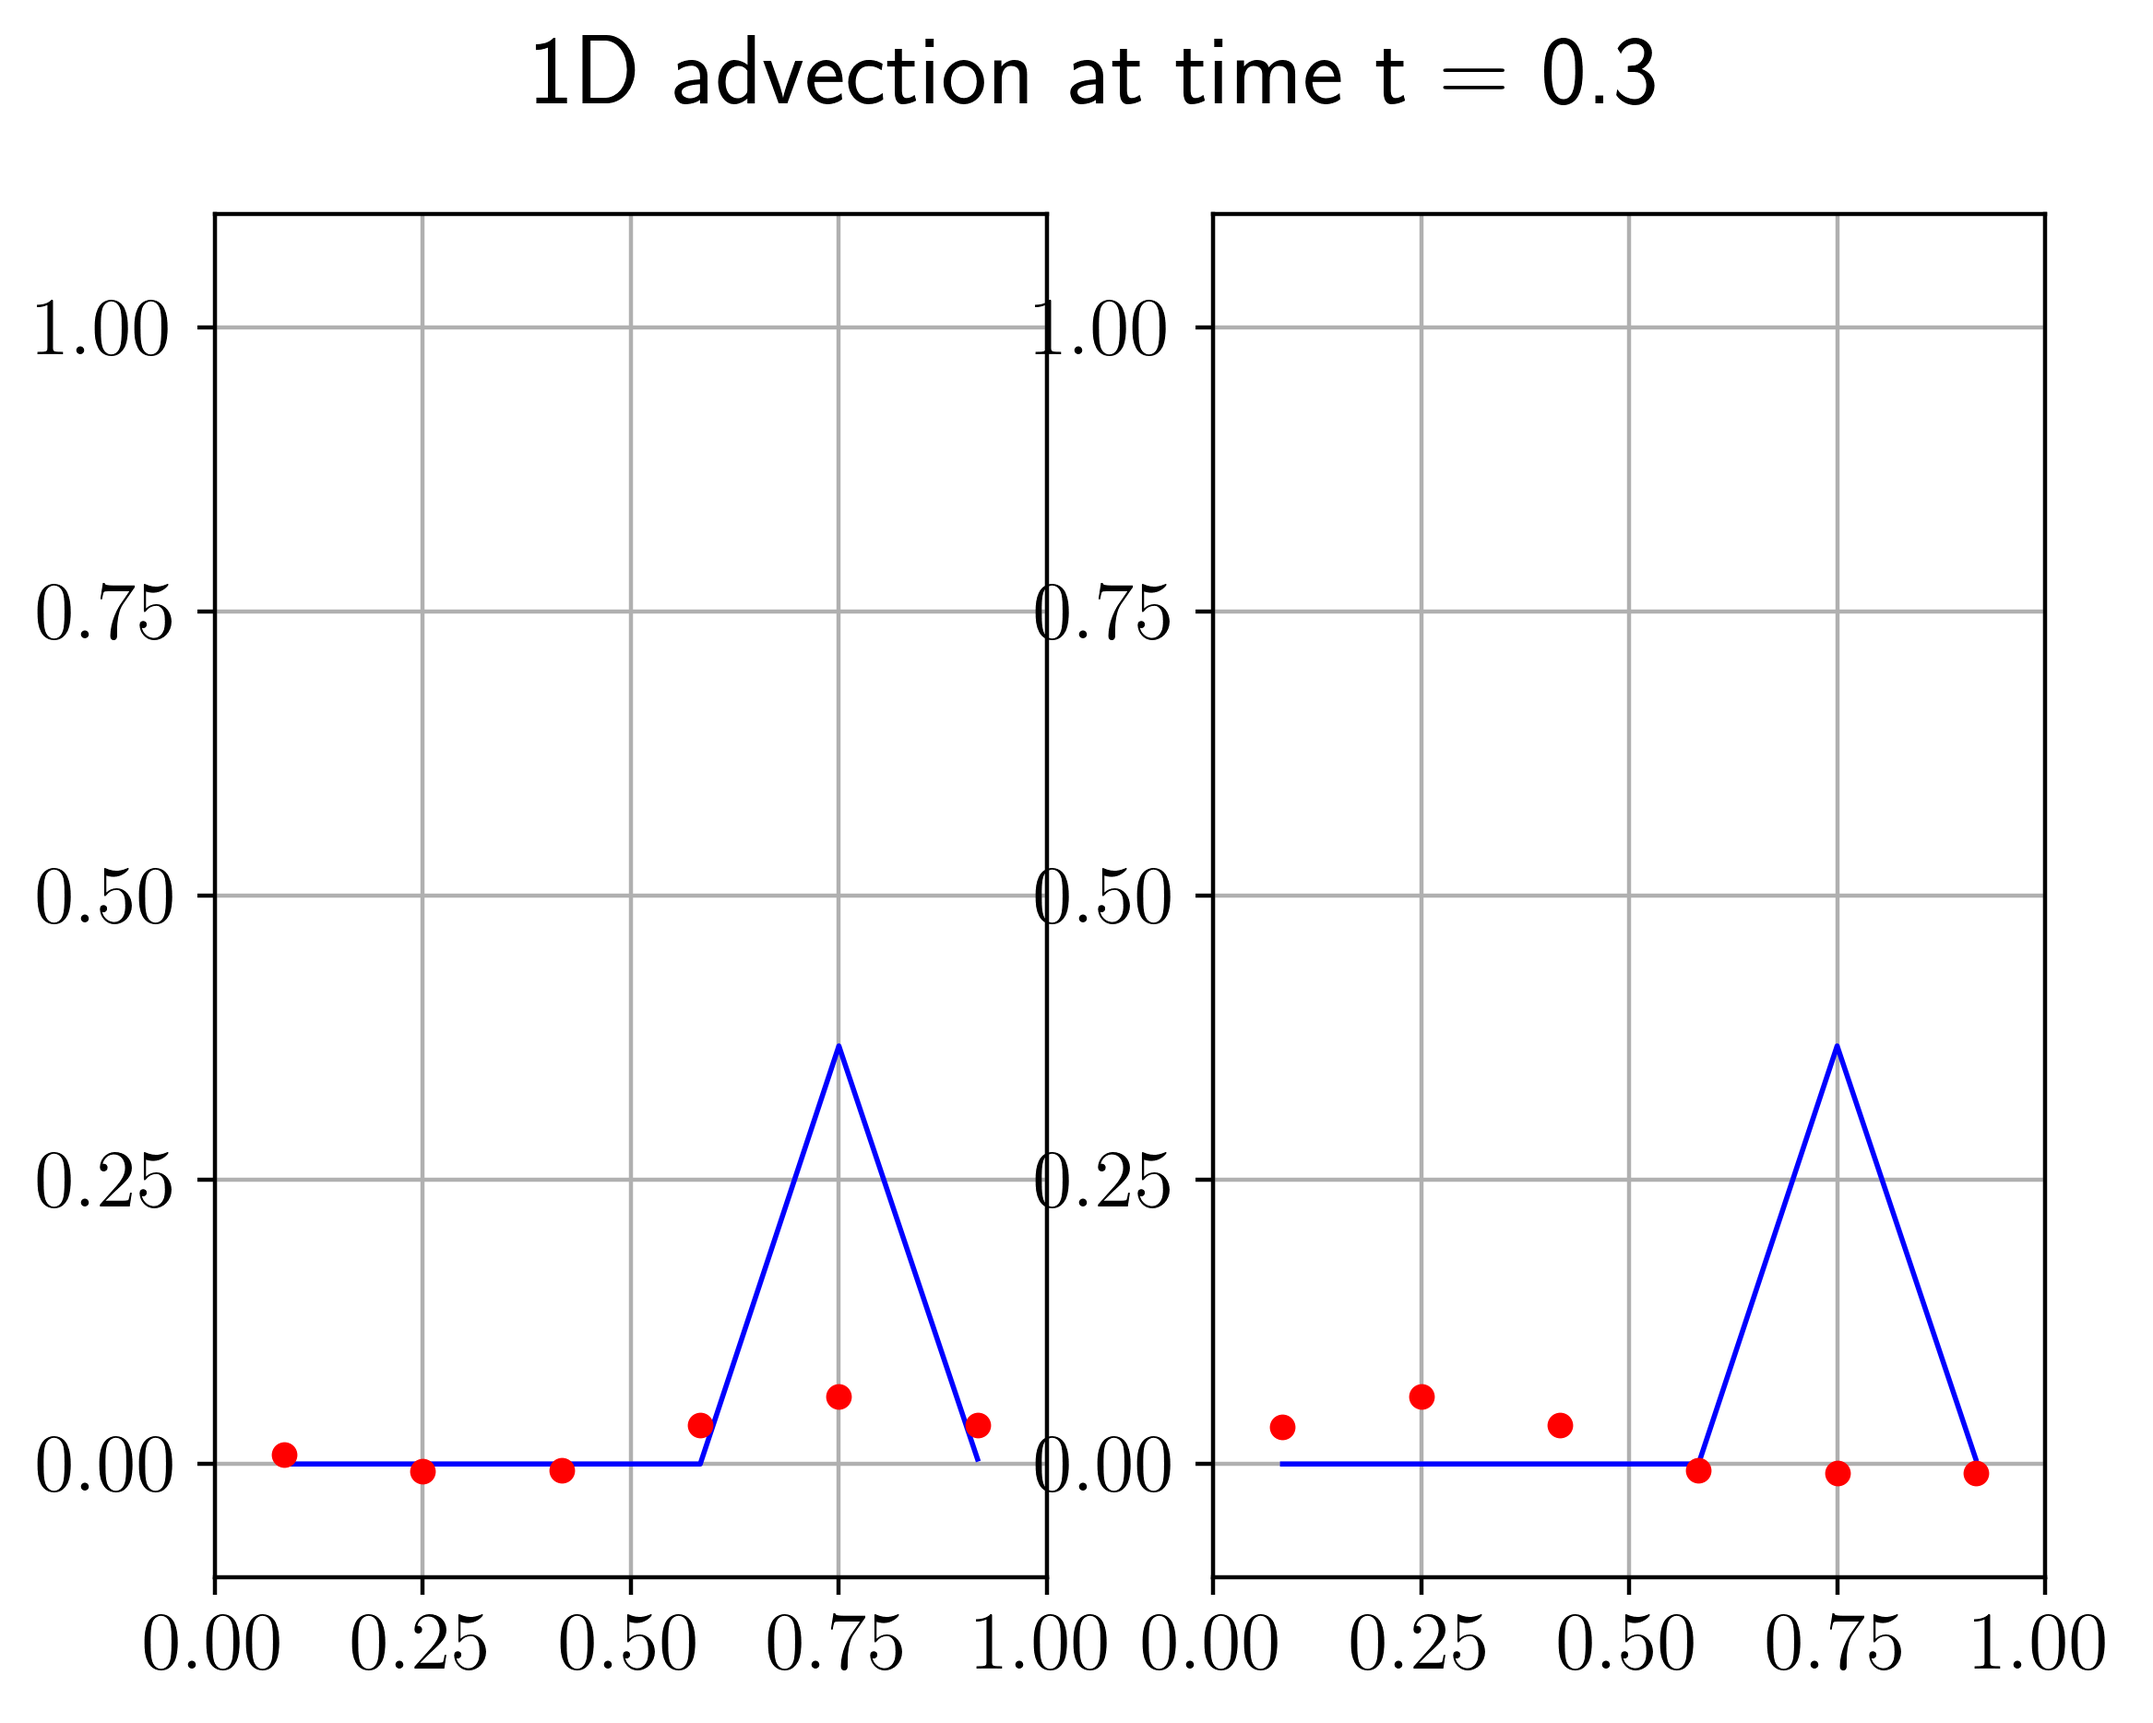
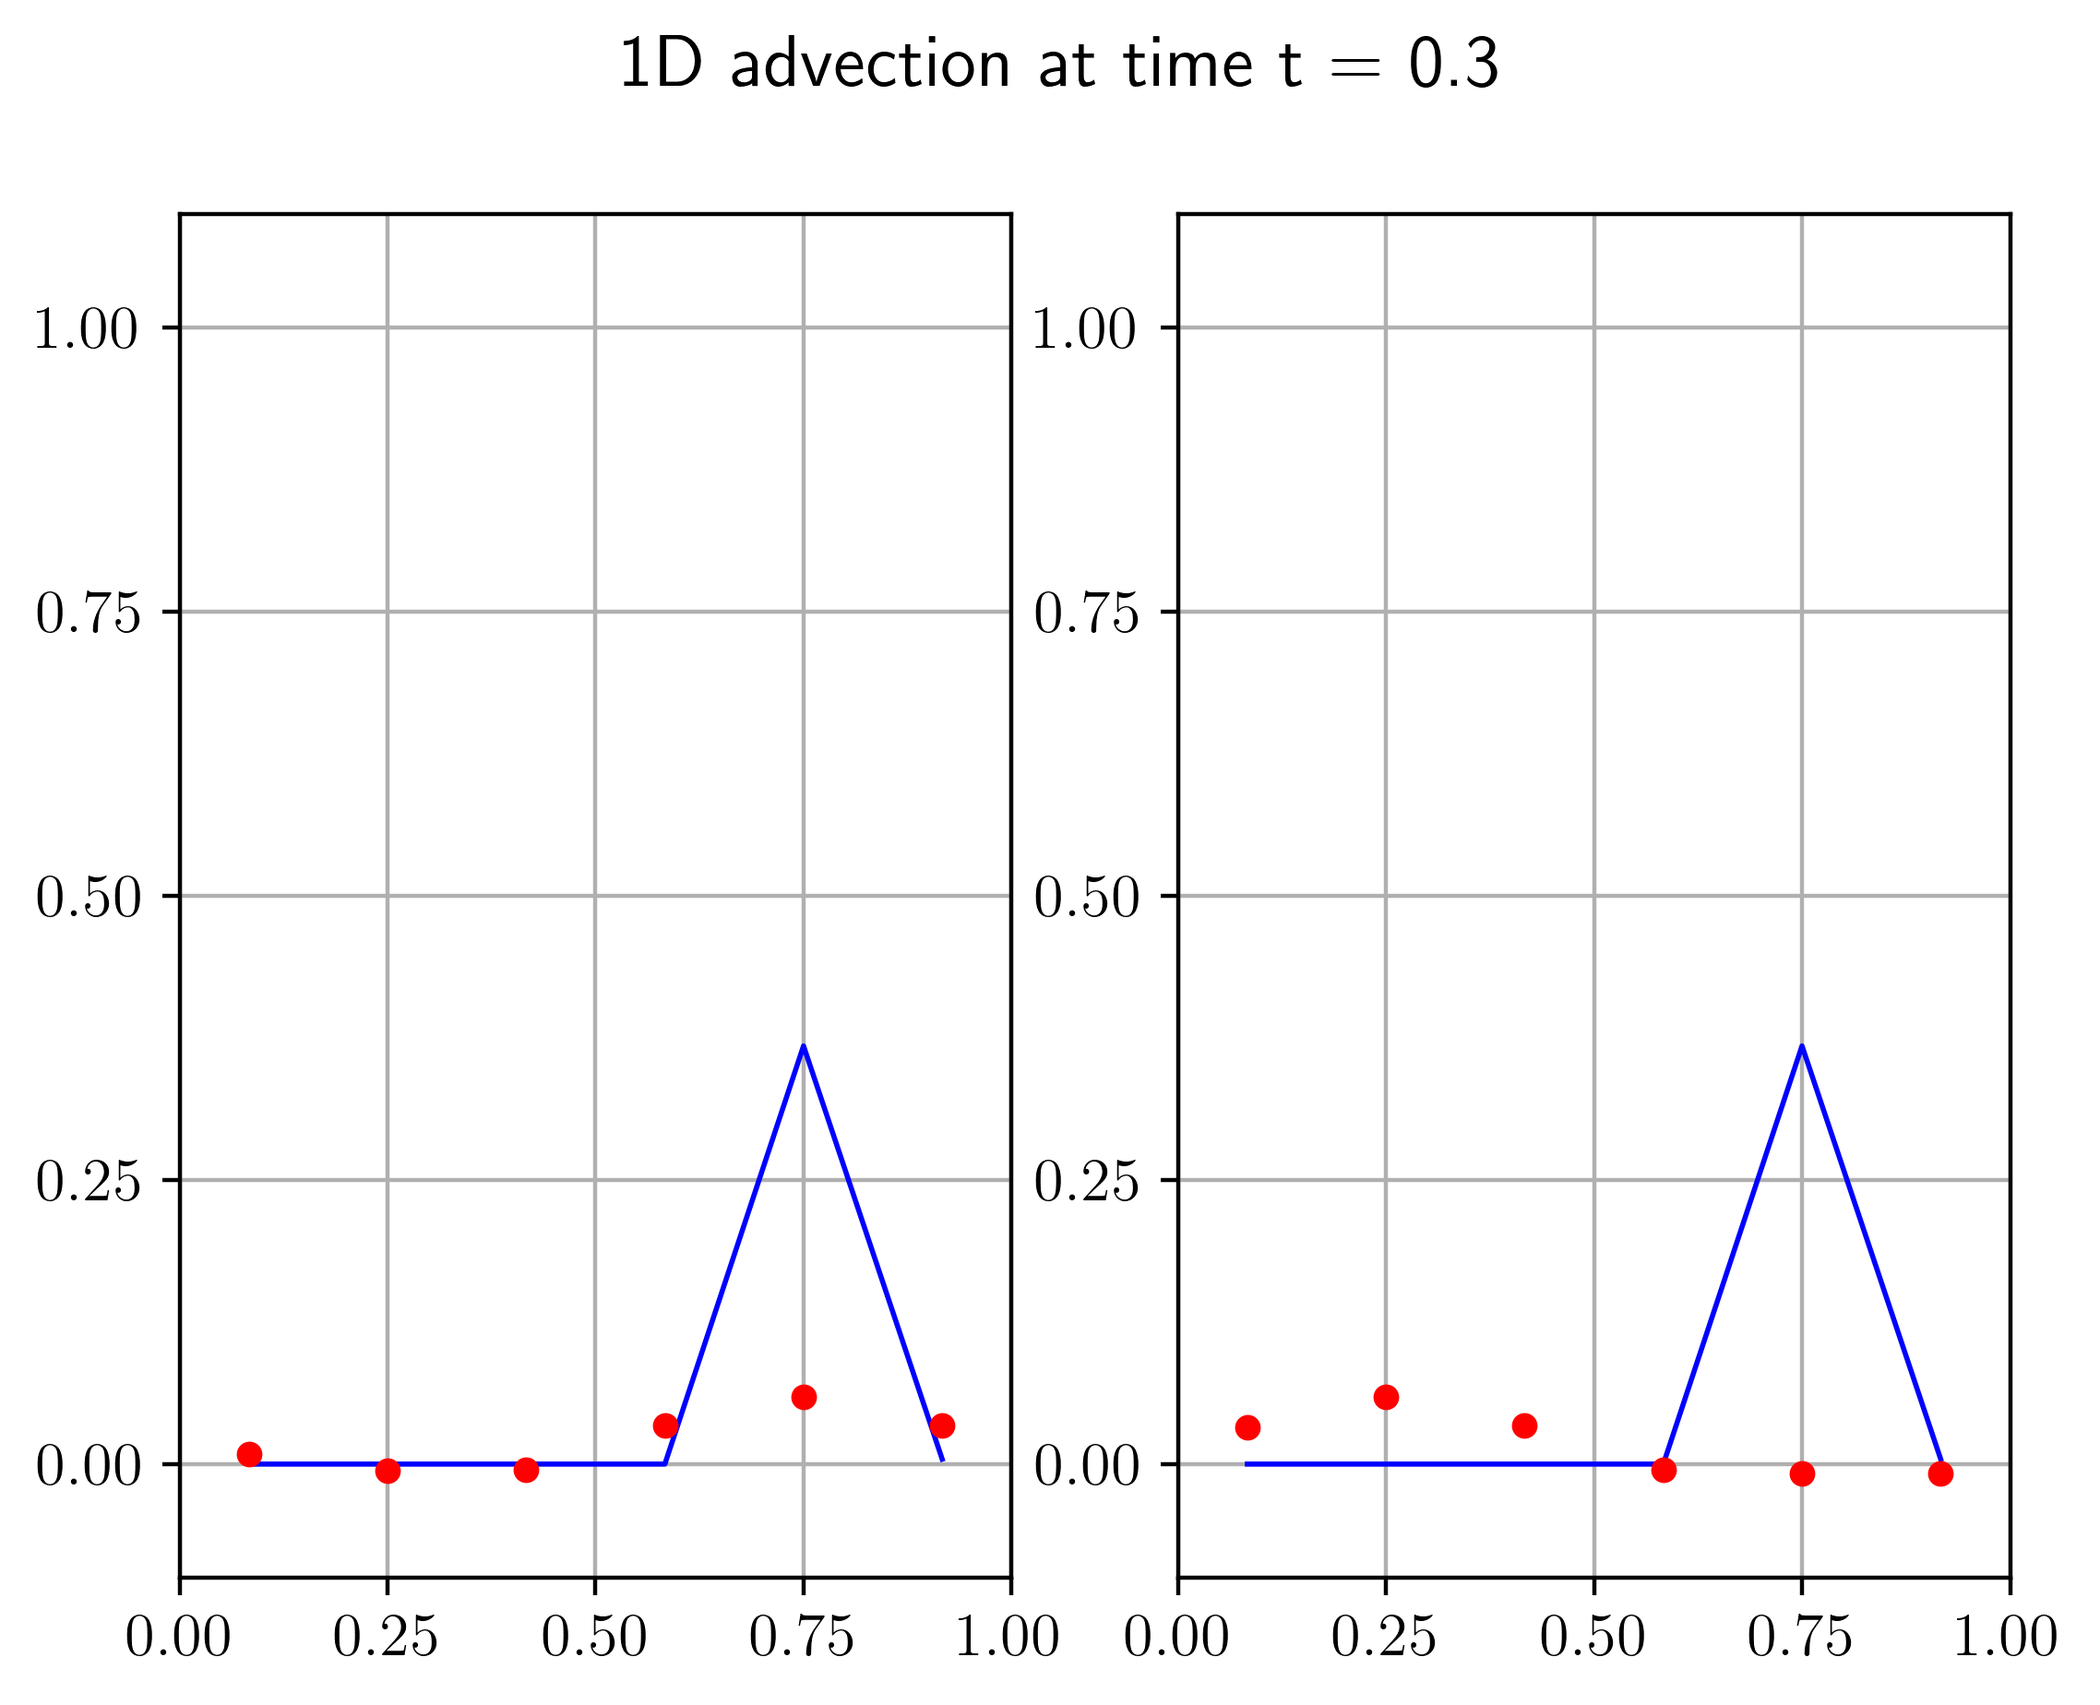
change font size

diff --git a/lab18/plot_soln.py b/lab18/plot_soln.py
@@ -60,7 +60,7 @@ def plot_soln(create_png=False):
             tmp_index = tmp_index+1
 
     # plot the result
-    plt.rc("font", size=16);
+    plt.rc("font", size=12);
     for NumFrame in range(0,11):
 
         plt.figure(NumFrame)
